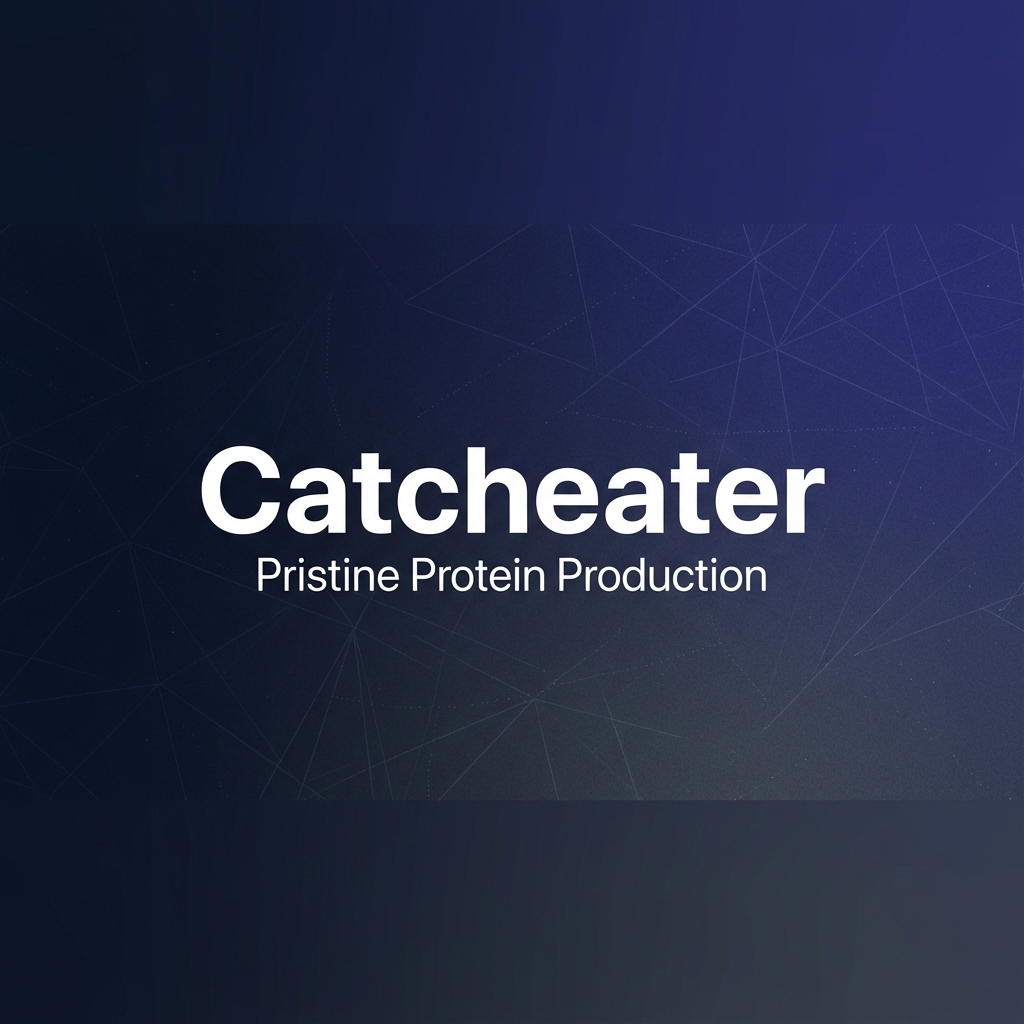
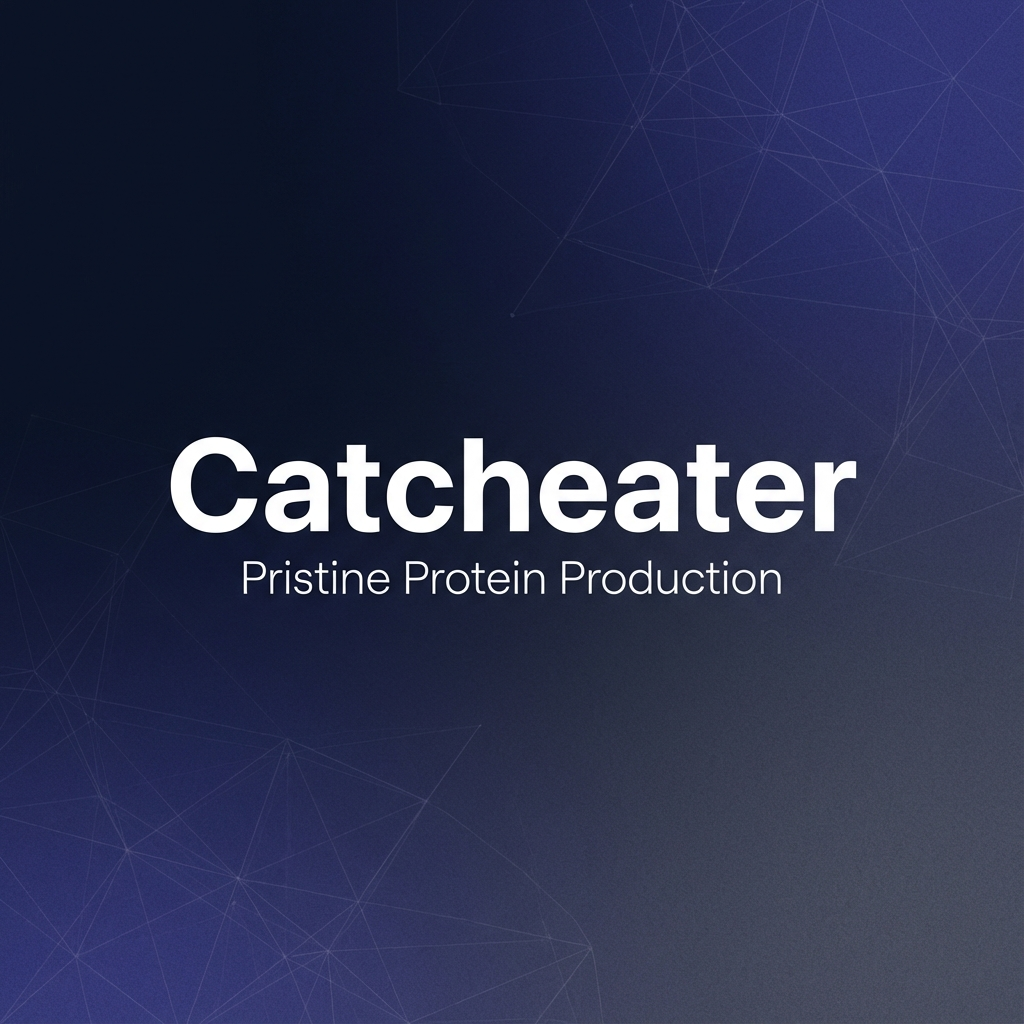
fix(docs): separate readme header from og-card and break cache

diff --git a/README.md b/README.md
@@ -2,7 +2,7 @@
 
 **The first tag-less quality control system for industrial fermentation.**
 
-![Catcheater Banner](public/og-card.png)
+![Catcheater Banner](public/readme-header.png)
 
 ## Overview
 
